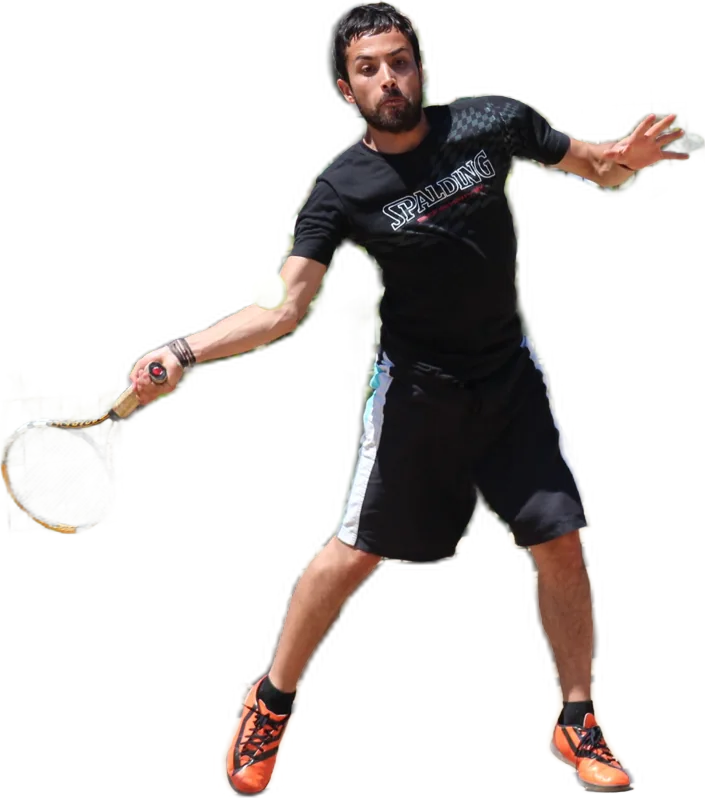
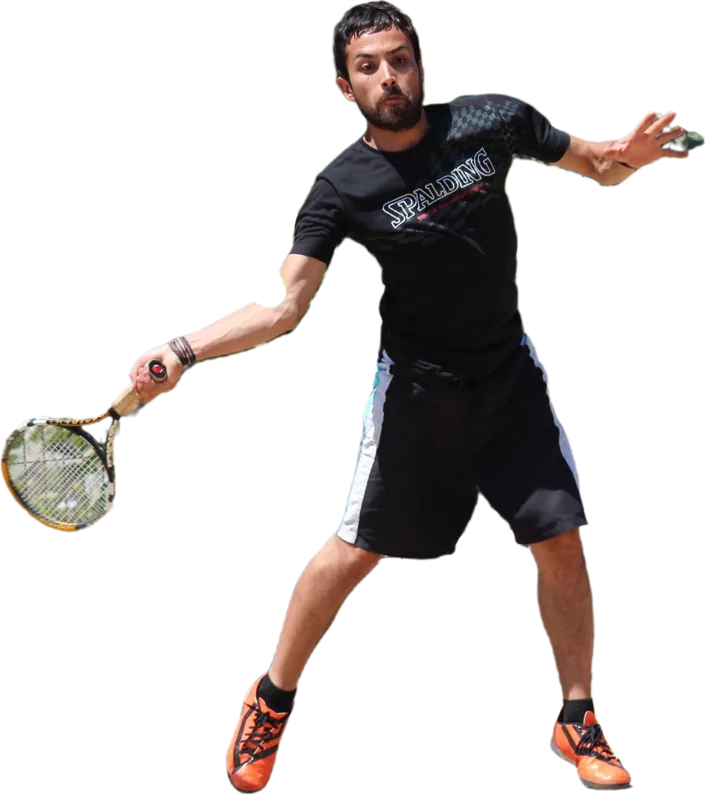
Rehace recorte de Mila, fotos completas con degradado en el podio y nuevo escenario del head to head
Claude-Session: https://claude.ai/code/session_016YYftfmrkoTD1yoD5uXtSq

diff --git a/index.html b/index.html
@@ -319,7 +319,31 @@ p{margin:0}
 @keyframes wave{from{transform:translateY(-7%);filter:brightness(1.08)}to{transform:translateY(7%);filter:brightness(.86)}}
 .player .cflag{position:absolute;top:18px;left:18px;z-index:1}
 .pod .flagrow{display:flex;align-items:center;gap:14px}
-.pod.has-cut{min-height:250px}
+.pod.has-cut{min-height:260px}
+.pod .pod-photo{position:absolute;right:0;top:0;height:100%;width:62%;object-fit:cover;object-position:center 30%;-webkit-mask-image:linear-gradient(90deg,transparent,#000 55%);mask-image:linear-gradient(90deg,transparent,#000 55%);transition:transform .7s}
+.pod:hover .pod-photo{transform:scale(1.06)}
+.pod .posn{font-family:var(--f-display);font-weight:900;font-size:62px;line-height:.8;letter-spacing:-.03em}
+.pod.has-cut h3,.pod.has-cut .pts,.pod.has-cut .s{text-shadow:0 2px 16px rgba(0,0,0,.25)}
+/* head to head: escenario con rostros a los costados */
+.h2h-stage{position:relative;display:grid;grid-template-columns:minmax(0,1fr) auto minmax(0,1fr);align-items:center;height:380px;margin-top:40px;border-radius:28px;overflow:hidden;background:rgba(12,8,23,.35)}
+.h2h-face{position:relative;height:100%;overflow:hidden}
+.h2h-face img{width:100%;height:100%;object-fit:cover;object-position:center 35%;transition:transform .8s}
+.h2h-stage:hover .h2h-face img{transform:scale(1.04)}
+.h2h-face.a img{-webkit-mask-image:linear-gradient(90deg,#000 45%,transparent);mask-image:linear-gradient(90deg,#000 45%,transparent)}
+.h2h-face.b img{-webkit-mask-image:linear-gradient(270deg,#000 45%,transparent);mask-image:linear-gradient(270deg,#000 45%,transparent)}
+.h2h-ini{display:grid;place-items:center;height:100%;font-family:var(--f-display);font-weight:900;font-size:110px;color:transparent;-webkit-text-stroke:2px rgba(255,255,255,.35)}
+.h2h-mid{position:relative;z-index:2;text-align:center;padding-inline:10px}
+.h2h-nums{display:flex;align-items:center;justify-content:center;gap:18px}
+.h2h-nums b{font-family:var(--f-display);font-weight:900;font-size:clamp(80px,11vw,150px);line-height:.9;text-shadow:0 10px 40px rgba(0,0,0,.45)}
+.h2h-nums b.lead{background:var(--grad);-webkit-background-clip:text;background-clip:text;color:transparent;text-shadow:none;filter:drop-shadow(0 10px 30px rgba(0,0,0,.45))}
+.h2h-nums .dash{font-family:var(--f-display);font-size:50px;color:rgba(255,255,255,.5)}
+.h2h-names{display:flex;justify-content:space-between;gap:24px;margin-top:14px;font-size:15px;font-weight:600;color:#f3ecff;text-shadow:0 2px 10px rgba(0,0,0,.6)}
+@media (max-width:640px){
+  .h2h-stage{height:230px;grid-template-columns:minmax(0,1fr) auto minmax(0,1fr)}
+  .h2h-nums{gap:8px}.h2h-nums b{font-size:64px}.h2h-nums .dash{font-size:30px}
+  .h2h-names{flex-direction:column;gap:2px;font-size:12px}
+  .h2h-mid{padding-inline:4px}
+}
 .pod .pod-cut{position:absolute;right:4px;bottom:0;height:224px;width:auto;max-width:52%;object-fit:contain;object-position:bottom right;-webkit-mask-image:linear-gradient(180deg,#000 68%,transparent);mask-image:linear-gradient(180deg,#000 68%,transparent);filter:drop-shadow(0 10px 24px rgba(0,0,0,.35));transition:transform .6s}
 .pod:hover .pod-cut{transform:scale(1.05) translateY(-4px)}
 .pod.has-cut .pos{right:16px;top:auto;bottom:-14px;font-size:120px;z-index:3;opacity:1;color:transparent;-webkit-text-stroke:2px rgba(255,255,255,.85);text-shadow:0 6px 24px rgba(0,0,0,.25)}
@@ -889,7 +913,7 @@ let io=null;
   $("#rankIntro").textContent = `Puntos acumulados desde 2015. Corte al ${fdate(DATA.actualizado)}.`;
   $("#podium").innerHTML = activos.slice(0,3).map(([id,p],i)=>`
     <article class="pod rv ${["l","u","r"][i]} ${cut(id)?"has-cut":""}" style="transition-delay:${i*120}ms" data-id="${id}" tabindex="0" role="button" aria-label="Ver ficha de ${p.nombre}">
-      <div class="pos">${i+1}</div>${bust(id)?`<img class="pod-cut" src="${bust(id)}" alt="">`:""}<div class="flagrow">${cut(id)?"":`<div class="mono">${ini(id)}</div>`}${wflag(42,10)}</div>
+      ${FOTOS.has(id)?`<img class="pod-photo" src="fotos/${id}-rostro.jpg" alt="">`:`<div class="pos">${i+1}</div>`}<div class="flagrow">${FOTOS.has(id)?`<span class="posn">${i+1}</span>`:`<div class="mono">${ini(id)}</div>`}${wflag(42,10)}</div>
       <h3>${p.nombre}</h3><div class="pts num">${fmt(p.pts)}<small>PTS</small></div>
       <div class="s">${p.tit} ${p.tit===1?"título":"títulos"} · ${p.v}-${p.d} · ${pct(p)}% de victorias</div>
     </article>`).join("");
@@ -1026,8 +1050,15 @@ let io=null;
     const r=get(a,b);
     if(!r){o.innerHTML=`<p class="h2h-msg">${P[a].nombre} y ${P[b].nombre} no tienen partidos registrados entre ellos.</p>`;return;}
     const tot=r[0]+r[1];
-    o.innerHTML=`<div class="h2h-score"><div class="${r[0]>r[1]?"lead":""}">${bust(a)?`<img class="h2h-cut" src="${bust(a)}" alt="">`:avatar(a,"xl")}<b class="num">${r[0]}</b><span>${fmini()}${P[a].nombre}</span></div>
-      <div class="dash">–</div><div class="${r[1]>r[0]?"lead":""}">${bust(b)?`<img class="h2h-cut" src="${bust(b)}" alt="">`:avatar(b,"xl")}<b class="num">${r[1]}</b><span>${fmini()}${P[b].nombre}</span></div></div>
+    const face = id => FOTOS.has(id) ? `<img src="fotos/${id}-rostro.jpg" alt="${P[id].nombre}">` : `<span class="h2h-ini">${ini(id)}</span>`;
+    o.innerHTML=`<div class="h2h-stage">
+        <div class="h2h-face a">${face(a)}</div>
+        <div class="h2h-mid">
+          <div class="h2h-nums"><b class="num ${r[0]>r[1]?"lead":""}">${r[0]}</b><span class="dash">–</span><b class="num ${r[1]>r[0]?"lead":""}">${r[1]}</b></div>
+          <div class="h2h-names"><span>${fmini()}${P[a].nombre}</span><span>${fmini()}${P[b].nombre}</span></div>
+        </div>
+        <div class="h2h-face b">${face(b)}</div>
+      </div>
       <div class="h2h-bar"><i style="width:0"></i><i style="width:0"></i></div>
       <p class="h2h-msg">${tot} ${tot===1?"partido registrado":"partidos registrados"}</p>`;
     requestAnimationFrame(()=>requestAnimationFrame(()=>{const i=o.querySelectorAll(".h2h-bar i"); i[0].style.width=r[0]/tot*100+"%"; i[1].style.width=r[1]/tot*100+"%";}));
